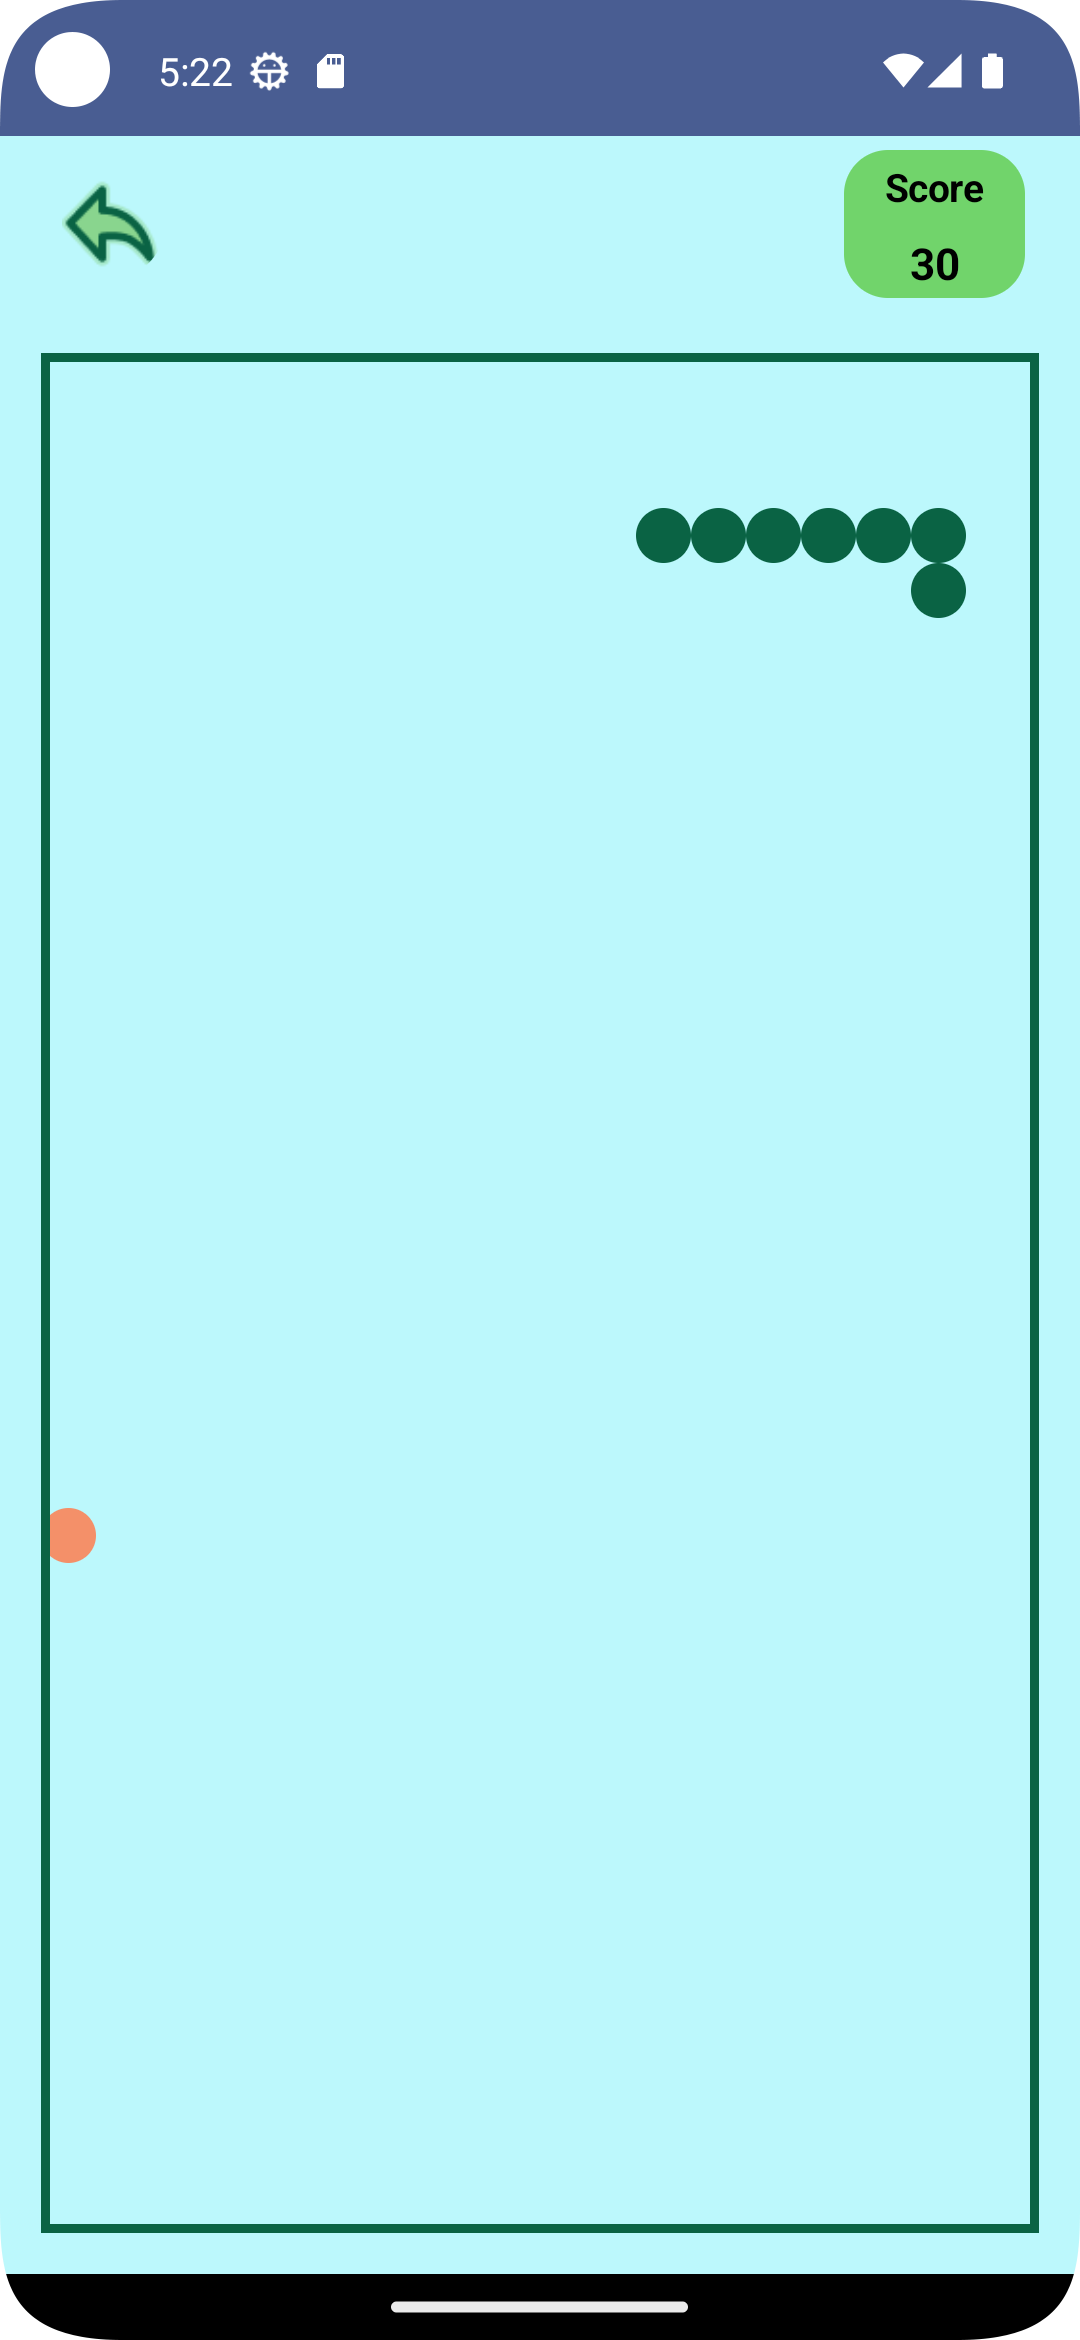
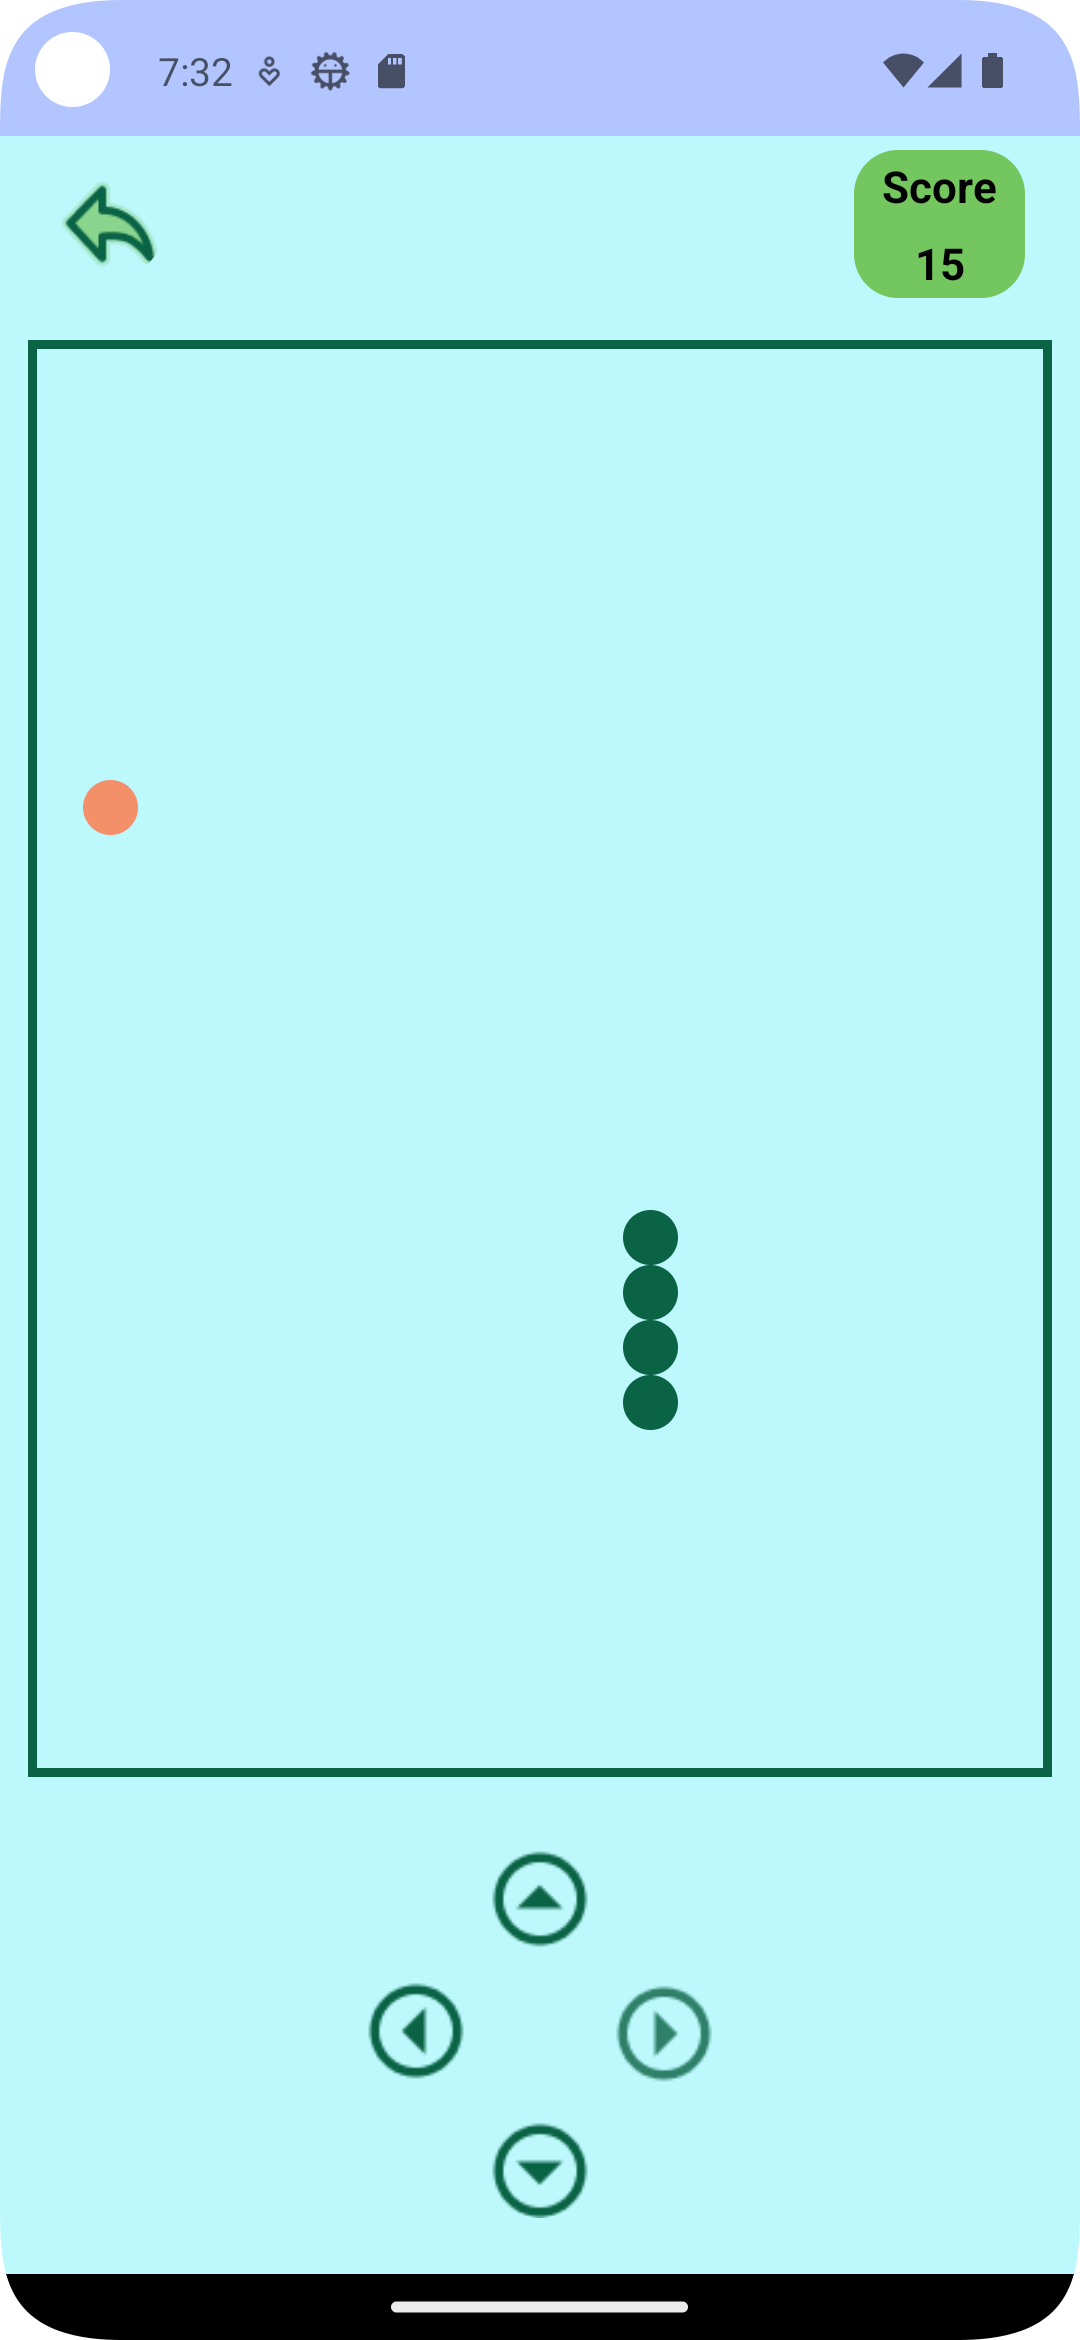
Refactor: Improved game mechanics and score management
- Fixed score update and display issues
- Resolved duplicate save issue
- Optimized snake movement controls
- General bug fixes and code improvements

diff --git a/app/src/main/java/com/example/feedthesnake/ui/presentation/GameScreen.kt b/app/src/main/java/com/example/feedthesnake/ui/presentation/GameScreen.kt
@@ -4,7 +4,6 @@ import android.content.Context
 import androidx.compose.foundation.Canvas
 import androidx.compose.foundation.background
 import androidx.compose.foundation.border
-import androidx.compose.foundation.gestures.detectDragGestures
 import androidx.compose.foundation.layout.Arrangement
 import androidx.compose.foundation.layout.Box
 import androidx.compose.foundation.layout.Column
@@ -12,16 +11,10 @@ import androidx.compose.foundation.layout.Row
 import androidx.compose.foundation.layout.Spacer
 import androidx.compose.foundation.layout.fillMaxSize
 import androidx.compose.foundation.layout.fillMaxWidth
-import androidx.compose.foundation.layout.height
 import androidx.compose.foundation.layout.padding
 import androidx.compose.foundation.layout.size
 import androidx.compose.foundation.layout.width
 import androidx.compose.foundation.shape.RoundedCornerShape
-import androidx.compose.material.icons.Icons
-import androidx.compose.material.icons.filled.KeyboardArrowDown
-import androidx.compose.material.icons.filled.KeyboardArrowLeft
-import androidx.compose.material.icons.filled.KeyboardArrowRight
-import androidx.compose.material.icons.filled.KeyboardArrowUp
 import androidx.compose.material3.ExperimentalMaterial3Api
 import androidx.compose.material3.Icon
 import androidx.compose.material3.IconButton
@@ -33,7 +26,6 @@ import androidx.compose.runtime.Composable
 import androidx.compose.runtime.LaunchedEffect
 import androidx.compose.runtime.collectAsState
 import androidx.compose.runtime.getValue
-import androidx.compose.runtime.mutableIntStateOf
 import androidx.compose.runtime.mutableStateOf
 import androidx.compose.runtime.remember
 import androidx.compose.runtime.setValue
@@ -54,6 +46,8 @@ import com.example.feedthesnake.constants.SizeConstants.BLOCK_SIZE_DIVIDER
 import com.example.feedthesnake.constants.SizeConstants.BORDER_SIZE
 import com.example.feedthesnake.constants.SizeConstants.COLUMN_SIZE
 import com.example.feedthesnake.constants.SizeConstants.ICON_SIZE
+import com.example.feedthesnake.constants.SizeConstants.MAX_ICON_SIZE
+import com.example.feedthesnake.constants.SizeConstants.MAX_WIDTH_SIZE
 import com.example.feedthesnake.constants.SizeConstants.MEDIUM_OFFSET_SIZE
 import com.example.feedthesnake.constants.SizeConstants.MEDIUM_PADDING_SIZE
 import com.example.feedthesnake.constants.SizeConstants.MIN_CORNER_SHAPE_SIZE
@@ -70,7 +64,6 @@ import com.example.feedthesnake.theme.LightBlue
 import com.example.feedthesnake.theme.Orange
 import com.example.feedthesnake.viewModel.SnakeViewModel
 import kotlinx.coroutines.delay
-import kotlin.random.Random
 
 @Composable
 fun GameScreen(
@@ -80,15 +73,17 @@ fun GameScreen(
     snakeViewModel: SnakeViewModel
 ) {
     val context = LocalContext.current
-    var score by remember {
-        mutableIntStateOf(0)
-    }
+    val score by snakeViewModel.score.collectAsState()
     Scaffold(
         modifier = Modifier.testTag("GameScreen"),
         containerColor = LightBlue,
         topBar = { GameScreenTopBar(score,onNavigateToHome) },
-        content = { innerPadding -> GameScreenContent(context=context,name=name,snakeViewModel=snakeViewModel,modifier = Modifier.padding(innerPadding), onScoreChange = { newScore ->
-            score = newScore },
+        content = { innerPadding -> GameScreenContent(
+            context = context,
+            name = name,
+            snakeViewModel = snakeViewModel,
+            modifier = Modifier.padding(innerPadding),
+            onScoreChange = { newScore -> snakeViewModel.updateScore(newScore) },
             onNavigateToGameOver = onNavigateToGameOver
         ) })
 }
@@ -140,15 +135,6 @@ fun GameScreenTopBar(score:Int,onNavigateToHome: () -> Unit) {
     })
 }
 
-fun randomOffset(canvasWidth: Float, canvasHeight: Float, blockSize: Float): Offset {
-    val random = Random.Default
-    return Offset(
-        x = random.nextInt(from = 0, until = (canvasWidth / blockSize).toInt()) * blockSize,
-        y = random.nextInt(from = 0, until = (canvasHeight / blockSize).toInt()) * blockSize
-    )
-}
-
-
 @Composable
 fun GameScreenContent(
     name: String,
@@ -161,7 +147,7 @@ fun GameScreenContent(
     val snakeBody by snakeViewModel.snakeBody.collectAsState()
     val foodPosition by snakeViewModel.foodPosition.collectAsState()
     val snakeDirection by snakeViewModel.snakeDirection.collectAsState()
-    val score by snakeViewModel.score
+    val score by snakeViewModel.score.collectAsState()
     val isGameOver by snakeViewModel.isGameOver.collectAsState()
 
     val blockSize = with(LocalDensity.current) { BLOCK_SIZE.toPx() }
@@ -217,35 +203,71 @@ fun GameScreenContent(
                 .padding(SMALL_PADDING_SIZE),
             onDirectionChange = { direction ->
                 snakeViewModel.updateDirection(direction.x, direction.y)
-            }
+            },
+            snakeDirection = snakeDirection
         )
     }
 }
 
 
 @Composable
-fun ControlPanel(onDirectionChange: (Offset) -> Unit, modifier: Modifier) {
+fun ControlPanel(
+    onDirectionChange: (Offset) -> Unit,
+    modifier: Modifier,
+    snakeDirection: Offset
+) {
+    val up = Offset(MIN_OFFSET_SIZE, -MEDIUM_OFFSET_SIZE)
+    val down = Offset(MIN_OFFSET_SIZE, MEDIUM_OFFSET_SIZE)
+    val left = Offset(-MEDIUM_OFFSET_SIZE, MIN_OFFSET_SIZE)
+    val right = Offset(MEDIUM_OFFSET_SIZE, MIN_OFFSET_SIZE)
+
     Column(
         horizontalAlignment = Alignment.CenterHorizontally,
         modifier = modifier
             .size(COLUMN_SIZE)
-            .border(BORDER_SIZE, DarkGreen, RoundedCornerShape(MIN_CORNER_SHAPE_SIZE))
+
     ) {
-        IconButton(onClick = { onDirectionChange(Offset(MIN_OFFSET_SIZE, -MEDIUM_OFFSET_SIZE)) }) {
-            Icon(Icons.Default.KeyboardArrowUp, contentDescription = "Up")
+        IconButton(
+            onClick = {
+                if (snakeDirection != down) {
+                    onDirectionChange(up)
+                }
+            }
+        ) {
+            Icon(modifier = Modifier.size(MAX_ICON_SIZE), tint = Color.Unspecified, painter = painterResource(R.drawable.up_arrow), contentDescription = "Up")
         }
         Row {
-            IconButton(onClick = { onDirectionChange(Offset(-MEDIUM_OFFSET_SIZE, MIN_OFFSET_SIZE)) }) {
-                Icon(Icons.Default.KeyboardArrowLeft, contentDescription = "Left")
+            IconButton(
+                onClick = {
+                    if (snakeDirection != right) {
+                        onDirectionChange(left)
+                    }
+                }
+            ) {
+                Icon(modifier = Modifier.size(MAX_ICON_SIZE), tint = Color.Unspecified, painter = painterResource(R.drawable.left_arrow), contentDescription = "Left")
             }
-            Spacer(modifier = Modifier.width(WIDTH_SIZE))
-            IconButton(onClick = { onDirectionChange(Offset(MEDIUM_OFFSET_SIZE, MIN_OFFSET_SIZE)) }) {
-                Icon(Icons.Default.KeyboardArrowRight, contentDescription = "Right")
+            Spacer(modifier = Modifier.width(MAX_WIDTH_SIZE))
+            IconButton(
+                onClick = {
+                    if (snakeDirection != left) {
+                        onDirectionChange(right)
+                    }
+                }
+            ) {
+                Icon(modifier = Modifier.size(MAX_ICON_SIZE), tint = Color.Unspecified, painter = painterResource(R.drawable.right_arrow), contentDescription = "Right")
             }
         }
-        IconButton(onClick = { onDirectionChange(Offset(MIN_OFFSET_SIZE, MEDIUM_OFFSET_SIZE)) }) {
-            Icon(Icons.Default.KeyboardArrowDown, contentDescription = "Down")
+        IconButton(
+            onClick = {
+                if (snakeDirection != up) {
+                    onDirectionChange(down)
+                }
+            }
+        ) {
+            Icon(modifier = Modifier.size(MAX_ICON_SIZE), tint = Color.Unspecified, painter = painterResource(R.drawable.down_arrow), contentDescription = "Down")
         }
     }
 }
+
+
 

diff --git a/app/src/main/java/com/example/feedthesnake/navigation/AppNavHost.kt b/app/src/main/java/com/example/feedthesnake/navigation/AppNavHost.kt
@@ -1,8 +1,5 @@
 package com.example.feedthesnake.navigation
 
-import androidx.compose.animation.core.tween
-import androidx.compose.animation.slideInHorizontally
-import androidx.compose.animation.slideOutHorizontally
 import androidx.compose.runtime.Composable
 import androidx.hilt.navigation.compose.hiltViewModel
 import androidx.navigation.compose.NavHost
@@ -25,23 +22,15 @@ fun AppNavHost() {
         navController = navController,
         startDestination = "splash"
     ) {
-        composable("splash", enterTransition = {
-            slideInHorizontally( initialOffsetX = { fullWidth -> fullWidth },
-                animationSpec = tween(durationMillis = 600))
-        },
-            exitTransition = { slideOutHorizontally() }) {
+        composable("splash") {
             SplashScreen(onNavigateToSecondSplash = { navController.navigate("second_splash") }
             )
         }
-        composable("second_splash", enterTransition = { slideInHorizontally( initialOffsetX = { fullWidth -> fullWidth },
-            animationSpec = tween(durationMillis = 600)) },
-            exitTransition = { slideOutHorizontally() }) {
+        composable("second_splash") {
             SecondSplashScreen(onNavigateToHome = { navController.navigate("home") }
             )
         }
-        composable("home", enterTransition = { slideInHorizontally( initialOffsetX = { fullWidth -> fullWidth },
-            animationSpec = tween(durationMillis = 600)) },
-            exitTransition = { slideOutHorizontally() }) {
+        composable("home") {
             HomeScreen(onNavigateToNameEntry = {
                 navController.navigate("name_entry")
             }, onNavigateToScoreTable = {
@@ -51,9 +40,7 @@ fun AppNavHost() {
 
             })
         }
-        composable("name_entry", enterTransition = { slideInHorizontally( initialOffsetX = { fullWidth -> fullWidth },
-            animationSpec = tween(durationMillis = 600)) },
-            exitTransition = { slideOutHorizontally() }) {
+        composable("name_entry") {
             NameEntryScreen(
                 onNavigateToHome = { navController.navigate("home") },
                 onNavigateToGame = { name ->
@@ -62,9 +49,7 @@ fun AppNavHost() {
             )
         }
 
-        composable("game/{name}", enterTransition = { slideInHorizontally( initialOffsetX = { fullWidth -> fullWidth },
-            animationSpec = tween(durationMillis = 600)) },
-            exitTransition = { slideOutHorizontally() }) { backStackEntry ->
+        composable("game/{name}") { backStackEntry ->
             val snakeViewModel: SnakeViewModel = hiltViewModel()
             val name = backStackEntry.arguments?.getString("name")
 
@@ -80,9 +65,7 @@ fun AppNavHost() {
             }
         }
 
-        composable("game_over/{score}", enterTransition = { slideInHorizontally( initialOffsetX = { fullWidth -> fullWidth },
-            animationSpec = tween(durationMillis = 600)) },
-            exitTransition = { slideOutHorizontally() }) { backStackEntry ->
+        composable("game_over/{score}") { backStackEntry ->
             val score = backStackEntry.arguments?.getString("score")?.toIntOrNull() ?: 0
             GameOverScreen(score = score, onNavigateToHome = { navController.navigate("home") },
                 onNavigateToNameEntry = {
@@ -90,13 +73,13 @@ fun AppNavHost() {
                 }
             )
         }
-        composable("score_table", enterTransition = { slideInHorizontally( initialOffsetX = { fullWidth -> fullWidth },
-            animationSpec = tween(durationMillis = 600)) },
-            exitTransition = { slideOutHorizontally() }) {
+        composable("score_table") {
+
             val snakeViewModel: SnakeViewModel = hiltViewModel()
             ScoreTableScreen(
                 onNavigateToHome = { navController.navigate("home") }, snakeViewModel
             )
+
         }
     }
 }

diff --git a/app/src/main/java/com/example/feedthesnake/viewModel/SnakeViewModel.kt b/app/src/main/java/com/example/feedthesnake/viewModel/SnakeViewModel.kt
@@ -28,8 +28,8 @@ class SnakeViewModel @Inject constructor(private val repository: SnakeRepository
     private val _topSnakes = MutableStateFlow<List<Snake>>(emptyList())
     val topSnakes: StateFlow<List<Snake>> get() = _topSnakes
 
-    private val _score = mutableIntStateOf(0)
-    val score: State<Int> = _score
+    private val _score = MutableStateFlow(0)
+    val score: StateFlow<Int> = _score
 
     private val _snakeBody = MutableStateFlow(listOf(Offset(MAX_OFFSET_SIZE, MAX_OFFSET_SIZE)))
     val snakeBody: StateFlow<List<Offset>> get() = _snakeBody
@@ -58,6 +58,10 @@ class SnakeViewModel @Inject constructor(private val repository: SnakeRepository
         }
     }
 
+    fun updateScore(newScore: Int) {
+        _score.value = newScore
+    }
+
     fun saveSnake(name: String, score: Int) {
         viewModelScope.launch {
             val snake = Snake(name = name, score = score)
@@ -80,8 +84,8 @@ class SnakeViewModel @Inject constructor(private val repository: SnakeRepository
             _snakeBody.value.drop(DROP_SIZE).contains(newHead)
         ) {
             _isGameOver.value = true
-            saveSnake(name, _score.intValue)
-            onGameOver(_score.intValue)
+            saveSnake(name, _score.value)
+            onGameOver(_score.value)
             return
         }
 

diff --git a/app/src/main/java/com/example/feedthesnake/ui/presentation/NameEntryScreen.kt b/app/src/main/java/com/example/feedthesnake/ui/presentation/NameEntryScreen.kt
@@ -104,7 +104,7 @@ fun NameEntryScreenContent(
                 label = { Text(stringResource(R.string.name), color = DarkGrey) },
                 modifier = Modifier
                     .fillMaxWidth()
-                    .padding(MEDIUM_PADDING_SIZE, MAX_PADDING_SIZE),
+                    .padding(MEDIUM_PADDING_SIZE),
                 singleLine = true,
                 shape = RoundedCornerShape(MAX_CORNER_SHAPE_SIZE),
                 colors = colors(
@@ -128,7 +128,7 @@ fun NameEntryScreenContent(
             Row(
                 modifier = Modifier
                     .fillMaxWidth()
-                    .padding(horizontal = MAX_PADDING_SIZE, vertical = SMALL_PADDING_SIZE),
+                    .padding(horizontal = MAX_PADDING_SIZE),
                 horizontalArrangement = Arrangement.SpaceAround
             ) {
                 CustomRadioButton(

diff --git a/app/src/main/java/com/example/feedthesnake/ui/components/CustomTopBar.kt b/app/src/main/java/com/example/feedthesnake/ui/components/CustomTopBar.kt
@@ -14,7 +14,7 @@ import androidx.compose.ui.graphics.Color
 import androidx.compose.ui.res.painterResource
 import androidx.compose.ui.res.stringResource
 import com.example.feedthesnake.R
-import com.example.feedthesnake.constants.SizeConstants
+import com.example.feedthesnake.constants.SizeConstants.ICON_SIZE
 import com.example.feedthesnake.theme.LightBlue
 
 @OptIn(ExperimentalMaterial3Api::class)
@@ -30,7 +30,7 @@ fun CustomTopBar(onNavigate: () -> Unit) {
                         painter = painterResource(id = R.drawable.back_icon),
                         contentDescription = stringResource(R.string.back),
                         tint = Color.Unspecified,
-                        modifier = Modifier.size(SizeConstants.ICON_SIZE)
+                        modifier = Modifier.size(ICON_SIZE)
                     )
                 }
             }

diff --git a/app/src/test/java/com/example/feedthesnake/repository/SnakeRepositoryTest.kt b/app/src/test/java/com/example/feedthesnake/repository/SnakeRepositoryTest.kt
@@ -28,14 +28,11 @@ class SnakeRepositoryTest {
 
     @Test
     fun `getTopSnakes returns list of snakes`() = runTest {
-        // Mock behavior
         val mockSnakes = listOf(Snake(1,"Alice", 100), Snake(2,"Bob", 80))
         `when`(snakeDao.getTopSnakes()).thenReturn(mockSnakes)
 
-        // Call method
         val result = repository.getTopSnakes()
 
-        // Verify results
         assertEquals(mockSnakes, result)
         verify(snakeDao).getTopSnakes()
     }
@@ -43,11 +40,7 @@ class SnakeRepositoryTest {
     @Test
     fun `insertSnake calls snakeDao insert method`() = runTest {
         val newSnake = Snake(0,"Charlie", 90)
-
-        // Call method
         repository.insertSnake(newSnake)
-
-        // Verify interaction
         verify(snakeDao).insertSnake(newSnake)
     }
 }

diff --git a/app/src/main/java/com/example/feedthesnake/ui/components/CustomRadioButton.kt b/app/src/main/java/com/example/feedthesnake/ui/components/CustomRadioButton.kt
@@ -6,7 +6,7 @@ import androidx.compose.material3.RadioButtonDefaults
 import androidx.compose.material3.Text
 import androidx.compose.runtime.Composable
 import androidx.compose.ui.Alignment
-import com.example.feedthesnake.constants.SizeConstants
+import com.example.feedthesnake.constants.SizeConstants.MIN_FONT_SIZE
 import com.example.feedthesnake.theme.DarkGreen
 import com.example.feedthesnake.theme.DarkGrey
 import com.example.feedthesnake.theme.Green
@@ -24,7 +24,7 @@ fun CustomRadioButton(label: String, selected: Boolean, onClick: () -> Unit) {
         )
         Text(
             text = label,
-            fontSize = SizeConstants.MIN_FONT_SIZE,
+            fontSize = MIN_FONT_SIZE,
             color = DarkGrey
         )
     }

diff --git a/app/src/main/java/com/example/feedthesnake/constants/SizeConstants.kt b/app/src/main/java/com/example/feedthesnake/constants/SizeConstants.kt
@@ -8,6 +8,7 @@ object SizeConstants {
     const val MAX_ANIMATED_OFFSET=1000f
     const val MIN_ANIMATED_OFFSET=0f
     val ICON_SIZE = 35.dp
+    val MAX_ICON_SIZE=48.dp
 
     val IMAGE_MAX_SIZE = 300.dp
     val IMAGE_MIN_SIZE = 200.dp
@@ -19,6 +20,7 @@ object SizeConstants {
 
     val COLUMN_SIZE=150.dp
     val WIDTH_SIZE=24.dp
+val MAX_WIDTH_SIZE=42.dp
 
     val MAX_CORNER_SHAPE_SIZE = 50.dp
     val MIN_CORNER_SHAPE_SIZE = 16.dp
